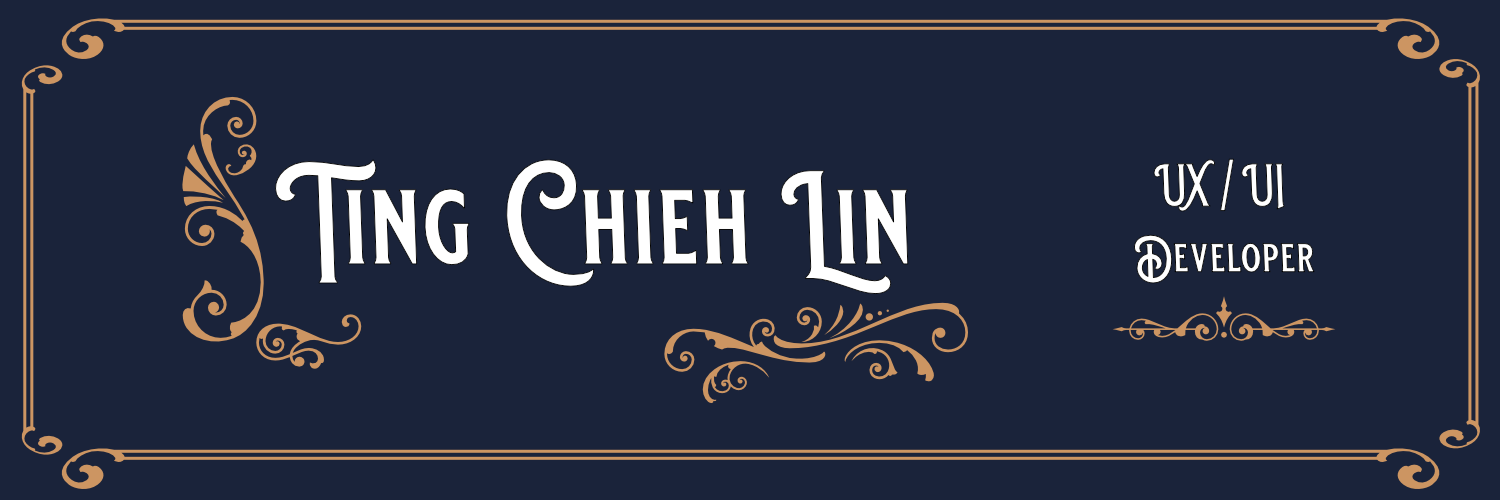
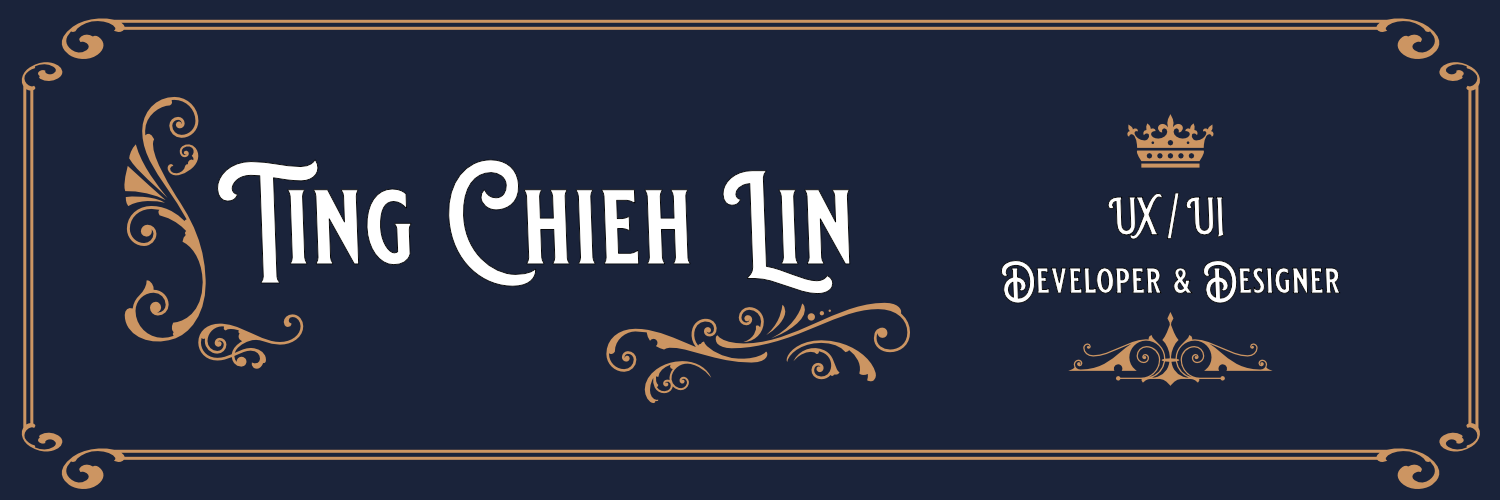
Update - image cover and context

diff --git a/README.md b/README.md
@@ -1,6 +1,6 @@
 <img src='./img/TCL-header.png' alt='TCL-header'/>
 
-I am a Full Stack UX/UI Developer and Designer to create pleasurable user experience and interactions. I love exploring new tech stacks with creative methods and discover different areas.
+I am a Creative UX/UI Developer and Designer to create pleasurable user experience and interactions. I love exploring new tech stacks with creative methods and discover different areas.
 
 ### 💼  My Portfolio
 
@@ -9,19 +9,6 @@ To see more from my [Portfolio](https://tingchiehlin.com/)
 ### 📬  Contact Me 
 
 <a href="https://www.linkedin.com/in/cooloojayoo/" title="Linked-in"><img src='./img/linkedIn.png' alt='linkedIn' width="26" height="27"/></a>
-
-### Full Stack Dev
-
-- Node & Express & PostgreSQL & Angular & AWS
-  
-  - [Image Processing API](https://github.com/TingChiehLin/image-processing-api)
-  - Build a Storefront Backend
-  - My Store
-  - Hosting a Full Stack Application
-
-- Others
-  
-  - [Name Sorter](https://github.com/TingChiehLin/name-sorter)
 
 ### Front End Dev
 
@@ -43,6 +30,16 @@ To see more from my [Portfolio](https://tingchiehlin.com/)
     - [Personal-Blog-Website](https://github.com/TingChiehLin/Personal-Blog-Website)
     - [Landing Page Project](https://github.com/TingChiehLin/Landing-Page)
 
+### Back End Dev
+
+- Node & Express
+  
+  - [Image Processing API](https://github.com/TingChiehLin/image-processing-api)
+  
+- Others
+  
+  - [Name Sorter](https://github.com/TingChiehLin/name-sorter)
+  
 ### XR Dev & Design
 
 - VR & Game Design
